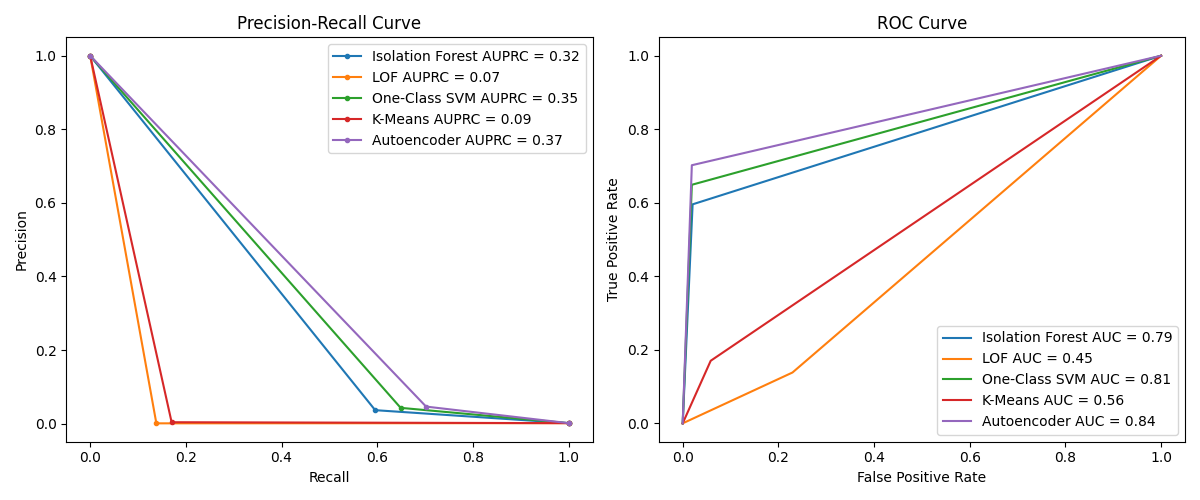
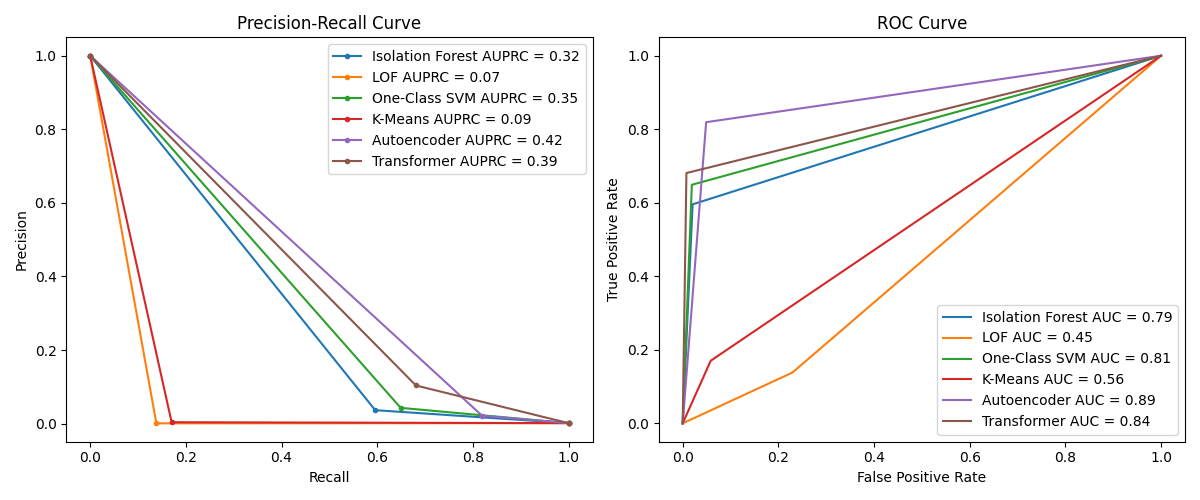
Add transformer model to comparison

diff --git a/anomaly.py b/anomaly.py
@@ -10,19 +10,26 @@ from sklearn.ensemble import IsolationForest
 from sklearn.metrics import classification_report, ConfusionMatrixDisplay, precision_recall_curve, roc_curve, auc
 from sklearn.neighbors import LocalOutlierFactor
 from sklearn.svm import OneClassSVM
+from torch import nn
 
 import data_loader
 import auto_encoder as ae
+from transformer import TransformerClassifier, train_loop, compute_class_weights, get_optimal_threshold
 
 # model_name = 'pointe77'
 # X_train_scaled, X_test_scaled, y_train, y_test = data_loader.load_pointe77_data()
 
+# model_name = 'mlg-ulb/default'
+# X_train_scaled, X_test_scaled, y_train, y_test = data_loader.load_mlg_ulb_data(apply_smote_enn=False)
+
 model_name = 'mlg-ulb'
-X_train_scaled, X_test_scaled, y_train, y_test = data_loader.load_mlg_ulb_data()
+X_train_scaled, X_test_scaled, y_train, y_test = data_loader.load_mlg_ulb_data(apply_smote_enn=True)
 
 model_path = f'models/{model_name}/'
 
 train_loader, test_loader = data_loader.create_dataloader(X_train_scaled, X_test_scaled)
+
+class_train_loader, class_test_loader = data_loader.create_classification_dataloader(X_train_scaled, X_test_scaled, y_train, y_test)
 
 start_time = datetime.now()
 # Train and test anomaly detection models
@@ -117,11 +124,56 @@ else:
     print(f"Autoencoder model training completed in {(datetime.now() - start_time).seconds} seconds, weights saved to {ae_model_path}")
 
 # Get reconstruction error on the test data
-reconstruction_error = ae.get_reconstruction_error(autoencoder_model, test_loader, device)
+reconstruction_error = ae.get_reconstruction_error(autoencoder_model, test_loader, 'cpu')  #TODO: Make this work with GPU
 # Set a threshold for anomaly detection
 threshold = np.percentile(reconstruction_error, 95)
 # Get predictions based on the threshold
 pred_ae = np.where(reconstruction_error > threshold, 1, 0)
+
+start_time = datetime.now()
+# 6. Transformer
+# Define the Transformer model
+transformer_model = TransformerClassifier(input_dim=X_train_scaled.shape[1])
+transformer_model = transformer_model.to(device)
+
+transformer_model_path = model_path + 'transformer.pth'
+
+# Load the trained Transformer model if exists
+if os.path.exists(transformer_model_path):
+    print(f"\nLoading Transformer model from {transformer_model_path}...")
+    transformer_model.load_state_dict(torch.load(transformer_model_path, map_location=device))
+    print(f"Transformer model loaded in {(datetime.now() - start_time).seconds} seconds")
+else:
+    # Train the model if it's not already saved
+    print("\nTraining Transformer...")
+    class_weights = compute_class_weights(y_train)
+    class_weights = class_weights.to(device)
+    pos_weight = class_weights[1] / class_weights[0]
+    criterion = nn.BCEWithLogitsLoss(pos_weight=pos_weight)
+
+    train_loop(transformer_model, class_train_loader, class_test_loader, criterion, transformer_model_path, device)
+    transformer_model.load_state_dict(torch.load(transformer_model_path, map_location=device))
+    print(f"Transformer model training completed in {(datetime.now() - start_time).seconds} seconds, weights saved to {transformer_model_path}")
+
+# Transformer evaluation
+transformer_model.eval()
+all_labels_transformer = []
+all_probs_transformer = []
+
+with torch.no_grad():
+    for inputs, labels in class_test_loader:
+        inputs = inputs.to(device)
+        labels = labels.to(device)
+
+        outputs = transformer_model(inputs)
+        probs = torch.sigmoid(outputs)
+
+        all_labels_transformer.extend(labels.cpu().numpy())
+        all_probs_transformer.extend(probs.cpu().numpy())
+
+# Determine optimal threshold
+optimal_threshold, best_f1 = get_optimal_threshold(np.array(all_labels_transformer), np.array(all_probs_transformer))
+preds_transformer = (np.array(all_probs_transformer) >= optimal_threshold).astype(int)
 
 print("\n--- Evaluation Results ---\n")
 plot_path = f'images/{model_name}/'
@@ -153,13 +205,20 @@ cm_kmeans = ConfusionMatrixDisplay.from_predictions(y_test, pred_kmeans, display
 plt.title("K-Means Confusion Matrix")
 plt.savefig(plot_path + 'KMcm.png')
 
-
 # Autoencoder evaluation
 print("Autoencoder (AE):")
 print(classification_report(y_test, pred_ae))
 cm_ae = ConfusionMatrixDisplay.from_predictions(y_test, pred_ae, display_labels=["Non-Fraud", "Fraud"])
 plt.title("Autoencoder Confusion Matrix")
 plt.savefig(plot_path + 'AEcm.png')
+
+# Transformer evaluation
+print("Transformer:")
+print(classification_report(y_test, preds_transformer))
+cm_transformer = ConfusionMatrixDisplay.from_predictions(y_test, preds_transformer, display_labels=["Non-Fraud", "Fraud"])
+plt.title("Transformer Confusion Matrix")
+plt.savefig(plot_path + 'Transformercm.png')
+plt.show()
 
 plt.show()
 
@@ -193,6 +252,7 @@ plot_precision_recall(y_test, pred_lof, 'LOF')
 plot_precision_recall(y_test, pred_ocsvm, 'One-Class SVM')
 plot_precision_recall(y_test, pred_kmeans, 'K-Means')
 plot_precision_recall(y_test, pred_ae, 'Autoencoder')
+plot_precision_recall(y_test, preds_transformer, 'Transformer')
 plt.legend()
 plt.subplot(1, 2, 2)
 plot_roc(y_test, pred_if, 'Isolation Forest')
@@ -200,6 +260,7 @@ plot_roc(y_test, pred_lof, 'LOF')
 plot_roc(y_test, pred_ocsvm, 'One-Class SVM')
 plot_roc(y_test, pred_kmeans, 'K-Means')
 plot_roc(y_test, pred_ae, 'Autoencoder')
+plot_roc(y_test, preds_transformer, 'Transformer')
 plt.legend()
 plt.tight_layout()
 plt.savefig(plot_path + 'PRAndRoc.png')

diff --git a/README.md b/README.md
@@ -354,6 +354,28 @@ SMOTE-ENN Train time: ~54 seconds
 
 ---
 
+### Transformer
+
+|              | precision | recall | f1-score | support |
+|--------------|-----------|--------|----------|---------|
+| 0.0          | 1.00      | 0.99   | 1.00     | 71108   |
+| 1.0          | 0.10      | 0.68   | 0.18     | 94      |
+| accuracy     |           |        | 0.99     | 71202   |
+| macro avg    | 0.55      | 0.84   | 0.59     | 71202   |
+| weighted avg | 1.00      | 0.99   | 0.99     | 71202   |
+
+SMOTE-ENN:
+
+|              | precision | recall | f1-score | support |
+|--------------|-----------|--------|----------|---------|
+| 0.0          | 1.00      | 0.99   | 1.00     | 71108   |
+| 1.0          | 0.10      | 0.76   | 0.18     | 94      |
+| accuracy     |           |        | 0.99     | 71202   |
+| macro avg    | 0.55      | 0.87   | 0.59     | 71202   |
+| weighted avg | 1.00      | 0.99   | 0.99     | 71202   |
+
+![covariance matrix](images/mlg-ulb/default/Transformercm.png)
+
 ### PR + ROC Curves
 
 ![PR+Roc.png](images/mlg-ulb/default/PRAndRoc.png)
@@ -451,7 +473,7 @@ Added SMOTE-ENN (Synthetic Minority Over-sampling Technique + Edited Nearest Nei
 ### Progress
 
 Looked into which deep learning models work best for anomaly detection, and found that Transformer models work really well for tabular data (like the credit card fraud dataset).[[3]](#3)  
-Added a Transformer model to the project.
+Added a Transformer model to the project and compared it with the other models.
 
 ### Next week's goals
 
